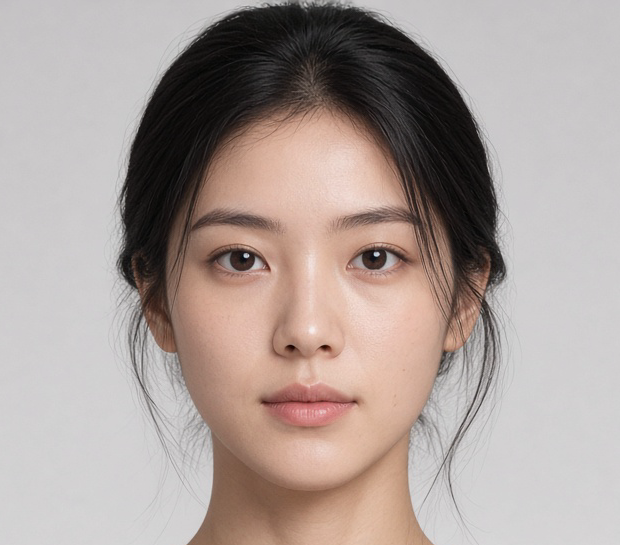
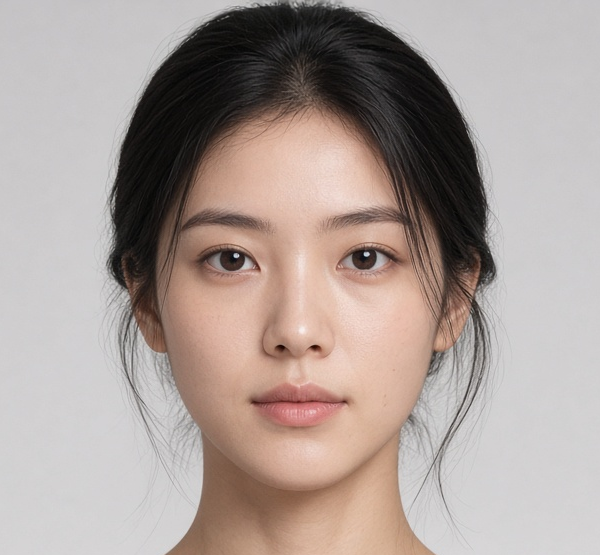
Lock Lin Wantang InstantID to a jaw-up crop and rerun her nude turnaround.
The chest-up lockface is archived. Scoring and ComfyUI identity use the chin crop with no collar.

diff --git a/ai-realistic-comic/library/cast/lin_wantang/actor.md b/ai-realistic-comic/library/cast/lin_wantang/actor.md
@@ -5,8 +5,8 @@
 - **English name:** Lin Wantang
 - **Standing slot:** 亚洲女性 Asian woman（Asian female lead）
 - **Maps-to role:** 白素贞 / Bai Suzhen（character folder `library/characters/baisuzhen_snake/`）。这是她当前饰演的角色，不是她的身份；任何未来的亚洲女性镜头都用这张脸，换角色不改脸。
-- **Lock face:** `library/cast/lin_wantang/ref.png` — 2026-10-06 记事正面单人锁脸（原创脸，非真人，不是公众人物 1:1）。头肩正面，灰底。侧脸、背面、三视图未交付。
-- **Retired:** `library/cast/lin_wantang/archive/ref-retired-2026-10-05.png` 停用。旧金黄瞳、正红唇、花钿、发髻不再当身份。
+- **Lock face:** `library/cast/lin_wantang/ref-face.png` — 下颌以上干净正脸，无衣领。InstantID 和打分都用这张。原图是记事 `lockface-asian-female-front.jpg`，仓库里是 `face-2026-10-06.jpg` 和带黑圆领的 `ref.png`。原创脸，非真人。侧脸、背面、三视图未交付。
+- **Retired:** `archive/ref-retired-2026-10-05.png`（金黄瞳旧定妆）和 `archive/ref-face-retired-2026-10-06-morning.png`（上一版下颌裁切）停用，不要删。
 - **Age appearance:** adult, mid-to-late twenties.
 
 ## Face 脸
@@ -38,8 +38,8 @@
 
 ## Chinese prompt lock（可直接粘贴）
 
-林晚棠（lin_wantang），成年亚洲女性主演。原创脸，非真人。浅色皮肤，干净额头，柔和脸型，黑褐眼，自然眉，自然裸粉唇，不要金黄瞳，不要正红唇，不要花钿，不要浓妆。黑发松松束在脑后，额前干净，人耳。锁脸以 `library/cast/lin_wantang/ref.png` 为准。角色戏服和蛇尾另计，不改变这张脸。
+林晚棠（lin_wantang），成年亚洲女性主演。原创脸，非真人。浅色皮肤，干净额头，柔和脸型，黑褐眼，自然眉，自然裸粉唇，不要金黄瞳，不要正红唇，不要花钿，不要浓妆。黑发松松束在脑后，额前干净，人耳。锁脸以 `library/cast/lin_wantang/ref-face.png` 为准。角色戏服和蛇尾另计，不改变这张脸。
 
 ## English prompt lock（paste-ready)
 
-Lin Wantang (lin_wantang), adult Asian standing actress. Original fictional face, not a real person. Even light skin, clean forehead, soft oval face, black-brown eyes, natural brows, nude-pink lips. No gold irises, no crimson lips, no forehead ornament, no heavy makeup. Soft black hair loosely tied back. Human ears. The lock is `library/cast/lin_wantang/ref.png`. Role costume and the serpent body do not change this face.
+Lin Wantang (lin_wantang), adult Asian standing actress. Original fictional face, not a real person. Even light skin, clean forehead, soft oval face, black-brown eyes, natural brows, nude-pink lips. No gold irises, no crimson lips, no forehead ornament, no heavy makeup. Soft black hair loosely tied back. Human ears. The lock is `library/cast/lin_wantang/ref-face.png`. Role costume and the serpent body do not change this face.

diff --git a/ai-realistic-comic/library/cast/lin_wantang/archive/README.md b/ai-realistic-comic/library/cast/lin_wantang/archive/README.md
@@ -2,4 +2,6 @@
 
 `ref-retired-2026-10-05.png` 是林晚棠旧定妆（金黄瞳、正红唇、古装发髻）。身份锁已停用。
 
-现用锁脸是上一级 `ref.png`：记事交付的亚洲女正面单人板，原创脸，非真人，不是任何公众人物的 1:1。不要再把这张旧图当 ref，也不要拿旧穿衣底板直接去衣。
+`ref-retired-2026-10-06-morning.png` 和 `ref-face-retired-2026-10-06-morning.png` 是换到下颌裁切之前的头肩板和旧裁切。停用，不要删。
+
+现用锁脸是上一级 `ref-face.png`：从记事 `lockface-asian-female-front.jpg` 裁到下巴，无衣领。原图另存为 `face-2026-10-06.jpg`。原创脸，非真人。不要拿旧穿衣底板直接去衣。
